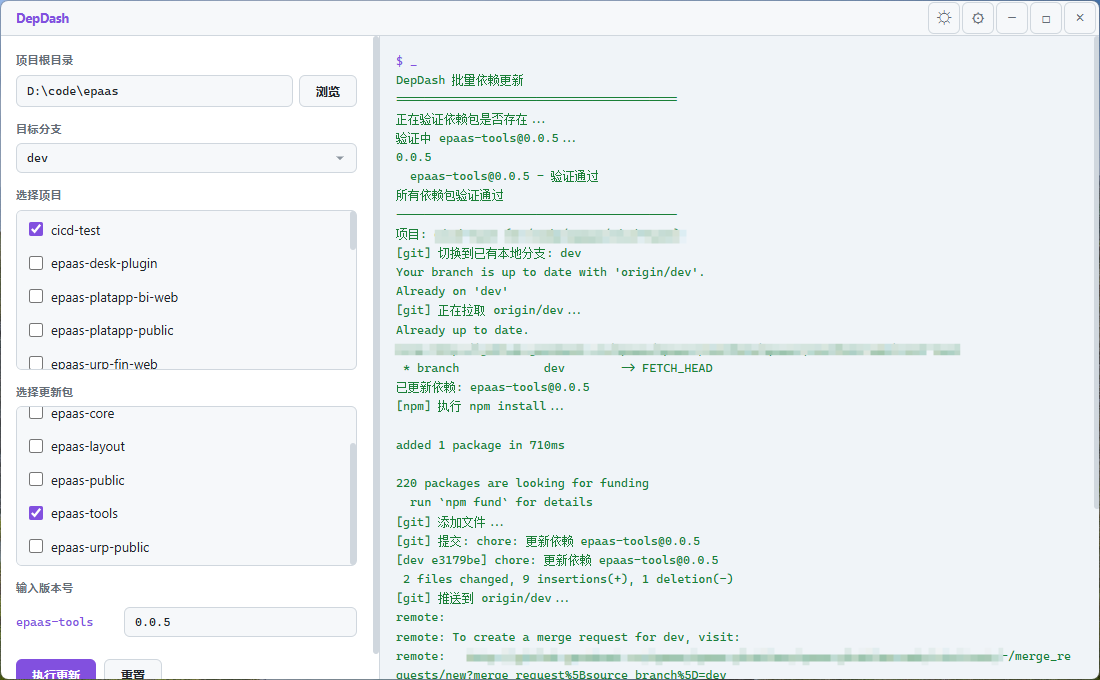
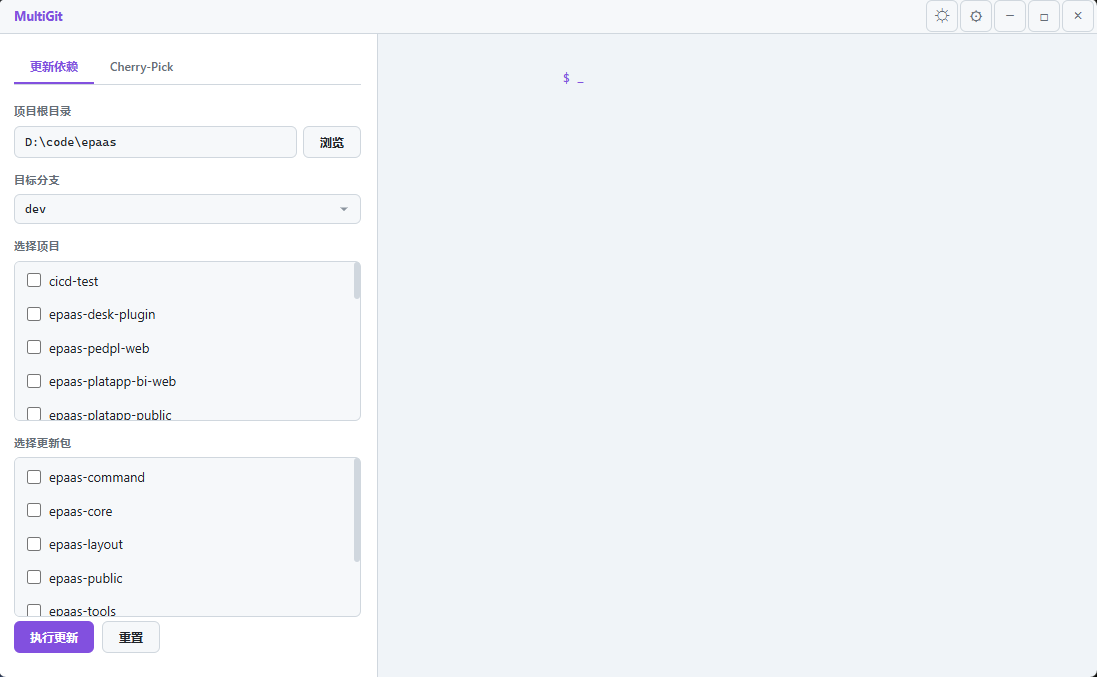
修改仓库名

Changed region(s): [[0.0, 0.0, 1.0, 1.0]]

diff --git a/frontend/index.html b/frontend/index.html
@@ -3,7 +3,7 @@
 <head>
     <meta charset="UTF-8" />
     <meta name="viewport" content="width=device-width, initial-scale=1.0" />
-    <title>DepDash</title>
+    <title>MultiGit</title>
     <link rel="stylesheet" href="/src/style.css" />
     <script src="/wailsjs/runtime/runtime.js" type="module"></script>
     <script src="/src/app.js" type="module"></script>
@@ -16,7 +16,7 @@
         </div>
         <header class="header">
             <div class="titlebar-drag">
-                <span class="logo">DepDash</span>
+                <span class="logo">MultiGit</span>
             </div>
             <div class="titlebar-controls">
                 <button class="btn-icon btn-titlebar" id="btnTheme" title="切换主题">&#9788;</button>

diff --git a/frontend/src/app.js b/frontend/src/app.js
@@ -410,10 +410,10 @@ function applyTheme(dark) {
 themeBtn.addEventListener('click', () => {
     const next = !isDark();
     applyTheme(next);
-    localStorage.setItem('depdash-theme', next ? 'dark' : 'light');
+    localStorage.setItem('multigit-theme', next ? 'dark' : 'light');
 });
 
-const saved = localStorage.getItem('depdash-theme');
+const saved = localStorage.getItem('multigit-theme');
 applyTheme(saved === 'dark' || (saved === null && window.matchMedia('(prefers-color-scheme: dark)').matches));
 
 window.addEventListener('resize', updateMaximizeIcon);

diff --git a/app.go b/app.go
@@ -14,11 +14,11 @@ import (
 	"syscall"
 	"time"
 	"unsafe"
+"multigit/internal/config"
 
-	"depdash/internal/config"
-	"depdash/internal/git"
-	"depdash/internal/npm"
+	"multigit/internal/git"
 
+	"multigit/internal/npm"
 	"github.com/wailsapp/wails/v2/pkg/runtime"
 )
 
@@ -70,7 +70,7 @@ func findICOIconResource(icoData []byte, targetSize int) *icoEntry {
 }
 
 func (a *App) getHWND() uintptr {
-	name, _ := syscall.UTF16PtrFromString("DepDash")
+	name, _ := syscall.UTF16PtrFromString("MultiGit")
 	hwnd, _, _ := procFindWindowW.Call(0, 0, uintptr(unsafe.Pointer(name)), 0)
 	return hwnd
 }
@@ -188,7 +188,7 @@ type ProjectCommits struct {
 }
 
 func (a *App) UpdatePackage(dirList []string, packages []string, branch string) (UpdateResult, error) {
-	runtime.EventsEmit(a.ctx, "log", "DepDash 批量依赖更新")
+	runtime.EventsEmit(a.ctx, "log", "MultiGit 批量依赖更新")
 	runtime.EventsEmit(a.ctx, "log", "========================================")
 
 	cfg, err := config.Load()
@@ -359,7 +359,7 @@ func (a *App) GetRecentCommits(dirList []string, branch string, count int) []Pro
 }
 
 func (a *App) CherryPickCommits(dirList []string, sourceBranch string, selectedCommits map[string][]string, destBranch string) UpdateResult {
-	runtime.EventsEmit(a.ctx, "log", "DepDash Cherry-Pick")
+	runtime.EventsEmit(a.ctx, "log", "MultiGit Cherry-Pick")
 	runtime.EventsEmit(a.ctx, "log", "========================================")
 
 	successCount := 0

diff --git a/internal/config/config.go b/internal/config/config.go
@@ -23,7 +23,7 @@ func DefaultConfig() Config {
 		Packages:         []string{},
 		AutoBumpProjects: []string{},
 		RootPath:         "",
-		UpdateRepo:       "ai-written/depdash",
+		UpdateRepo:       "ai-written/multiGit",
 		CommitCount:      5,
 	}
 }
@@ -37,7 +37,7 @@ func configDir() (string, error) {
 		}
 		appData = filepath.Join(home, ".config")
 	}
-	return filepath.Join(appData, "depdash"), nil
+	return filepath.Join(appData, "MultiGit"), nil
 }
 
 func configPath() (string, error) {

diff --git a/main.go b/main.go
@@ -18,7 +18,7 @@ func main() {
 	app := NewApp()
 
 	err := wails.Run(&options.App{
-		Title:            "DepDash",
+		Title:            "MultiGit",
 		Width:            1100,
 		Height:           680,
 		MinWidth:         900,

diff --git a/internal/npm/update.go b/internal/npm/update.go
@@ -11,7 +11,7 @@ import (
 	"regexp"
 	"strings"
 
-	"depdash/internal/command"
+	"multigit/internal/command"
 	"github.com/wailsapp/wails/v2/pkg/runtime"
 )
 

diff --git a/internal/git/ops.go b/internal/git/ops.go
@@ -9,7 +9,7 @@ import (
 	"strings"
 	"syscall"
 
-	"depdash/internal/command"
+	"multigit/internal/command"
 	"github.com/wailsapp/wails/v2/pkg/runtime"
 )
 

diff --git a/README.md b/README.md
@@ -1,8 +1,8 @@
-# DepDash
+# MultiGit
 
 使用 Go + Wails v2 构建的桌面端批量 Git 项目工具。
 
-![示例图片](image.png)
+![alt text](image.png)
 
 ## 功能
 
@@ -48,11 +48,11 @@ wails dev
 build.bat
 ```
 
-构建产物位于 `build/bin/depdash.exe`。
+构建产物位于 `build/bin/MultiGit.exe`。
 
 ## 配置
 
-首次运行自动在 `%APPDATA%/depdash/config.json` 生成配置文件：
+首次运行自动在 `%APPDATA%/MultiGit/config.json` 生成配置文件：
 
 ```json
 {
@@ -61,7 +61,7 @@ build.bat
     "packages": [],
     "autoBumpProjects": [],
     "rootPath": "",
-    "updateRepo": "ai-written/depdash",
+    "updateRepo": "ai-written/multiGit",
     "commitCount": 5
 }
 ```
